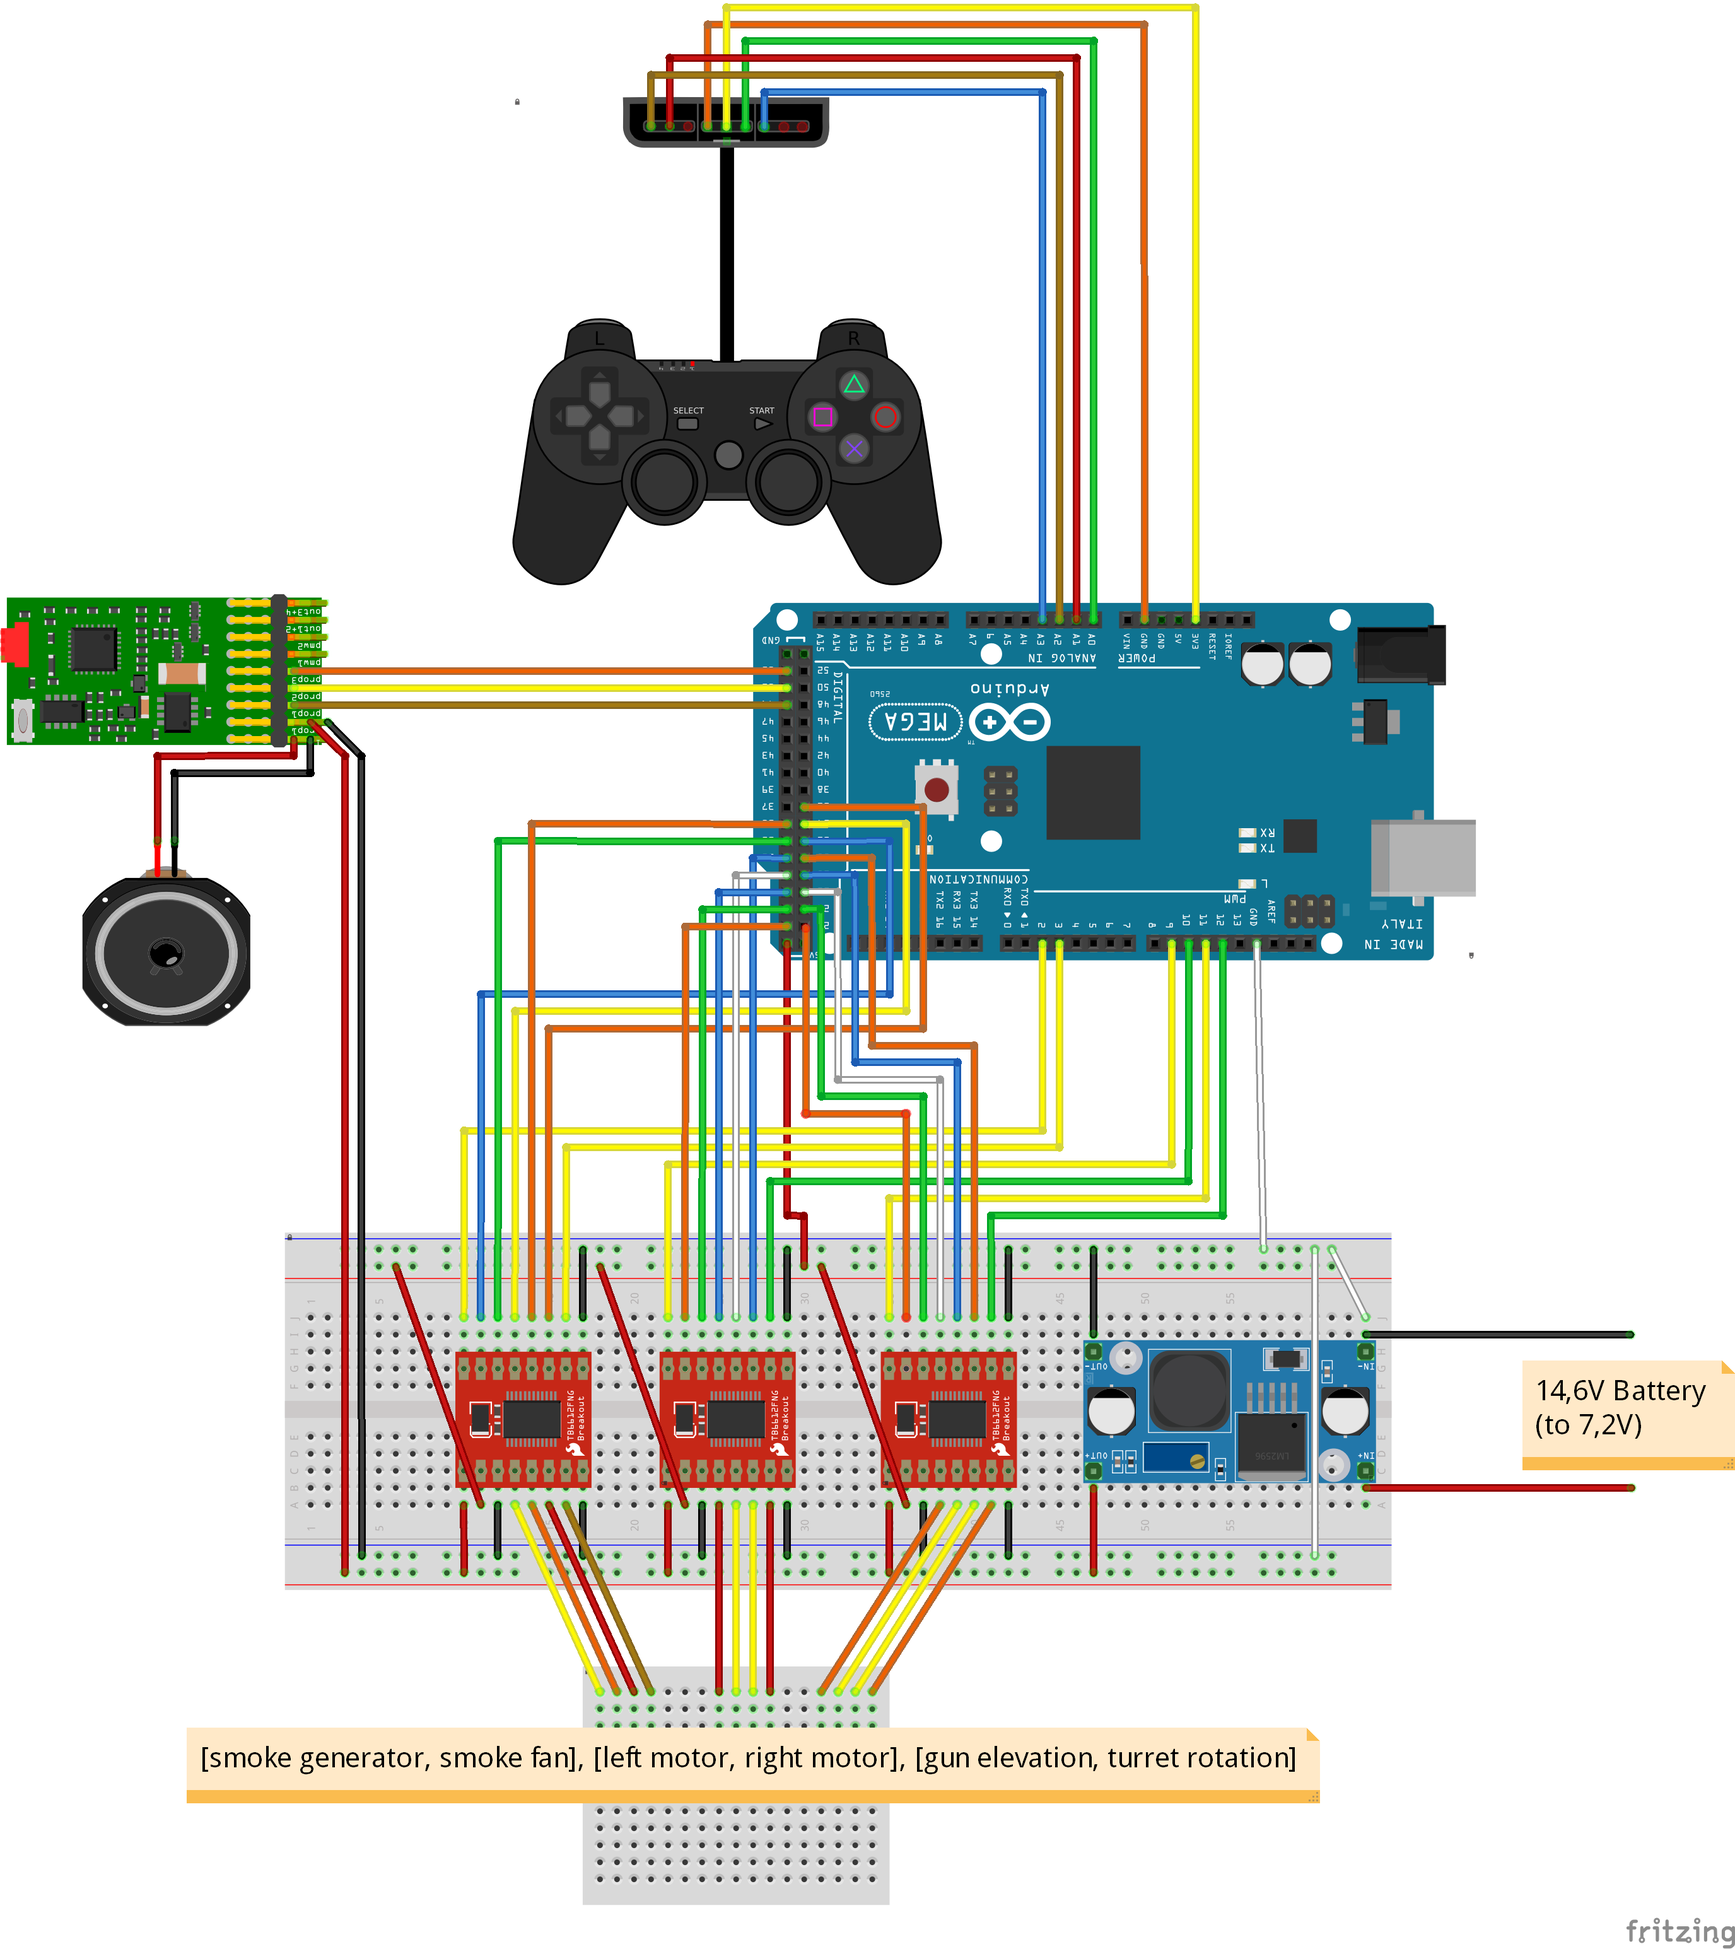
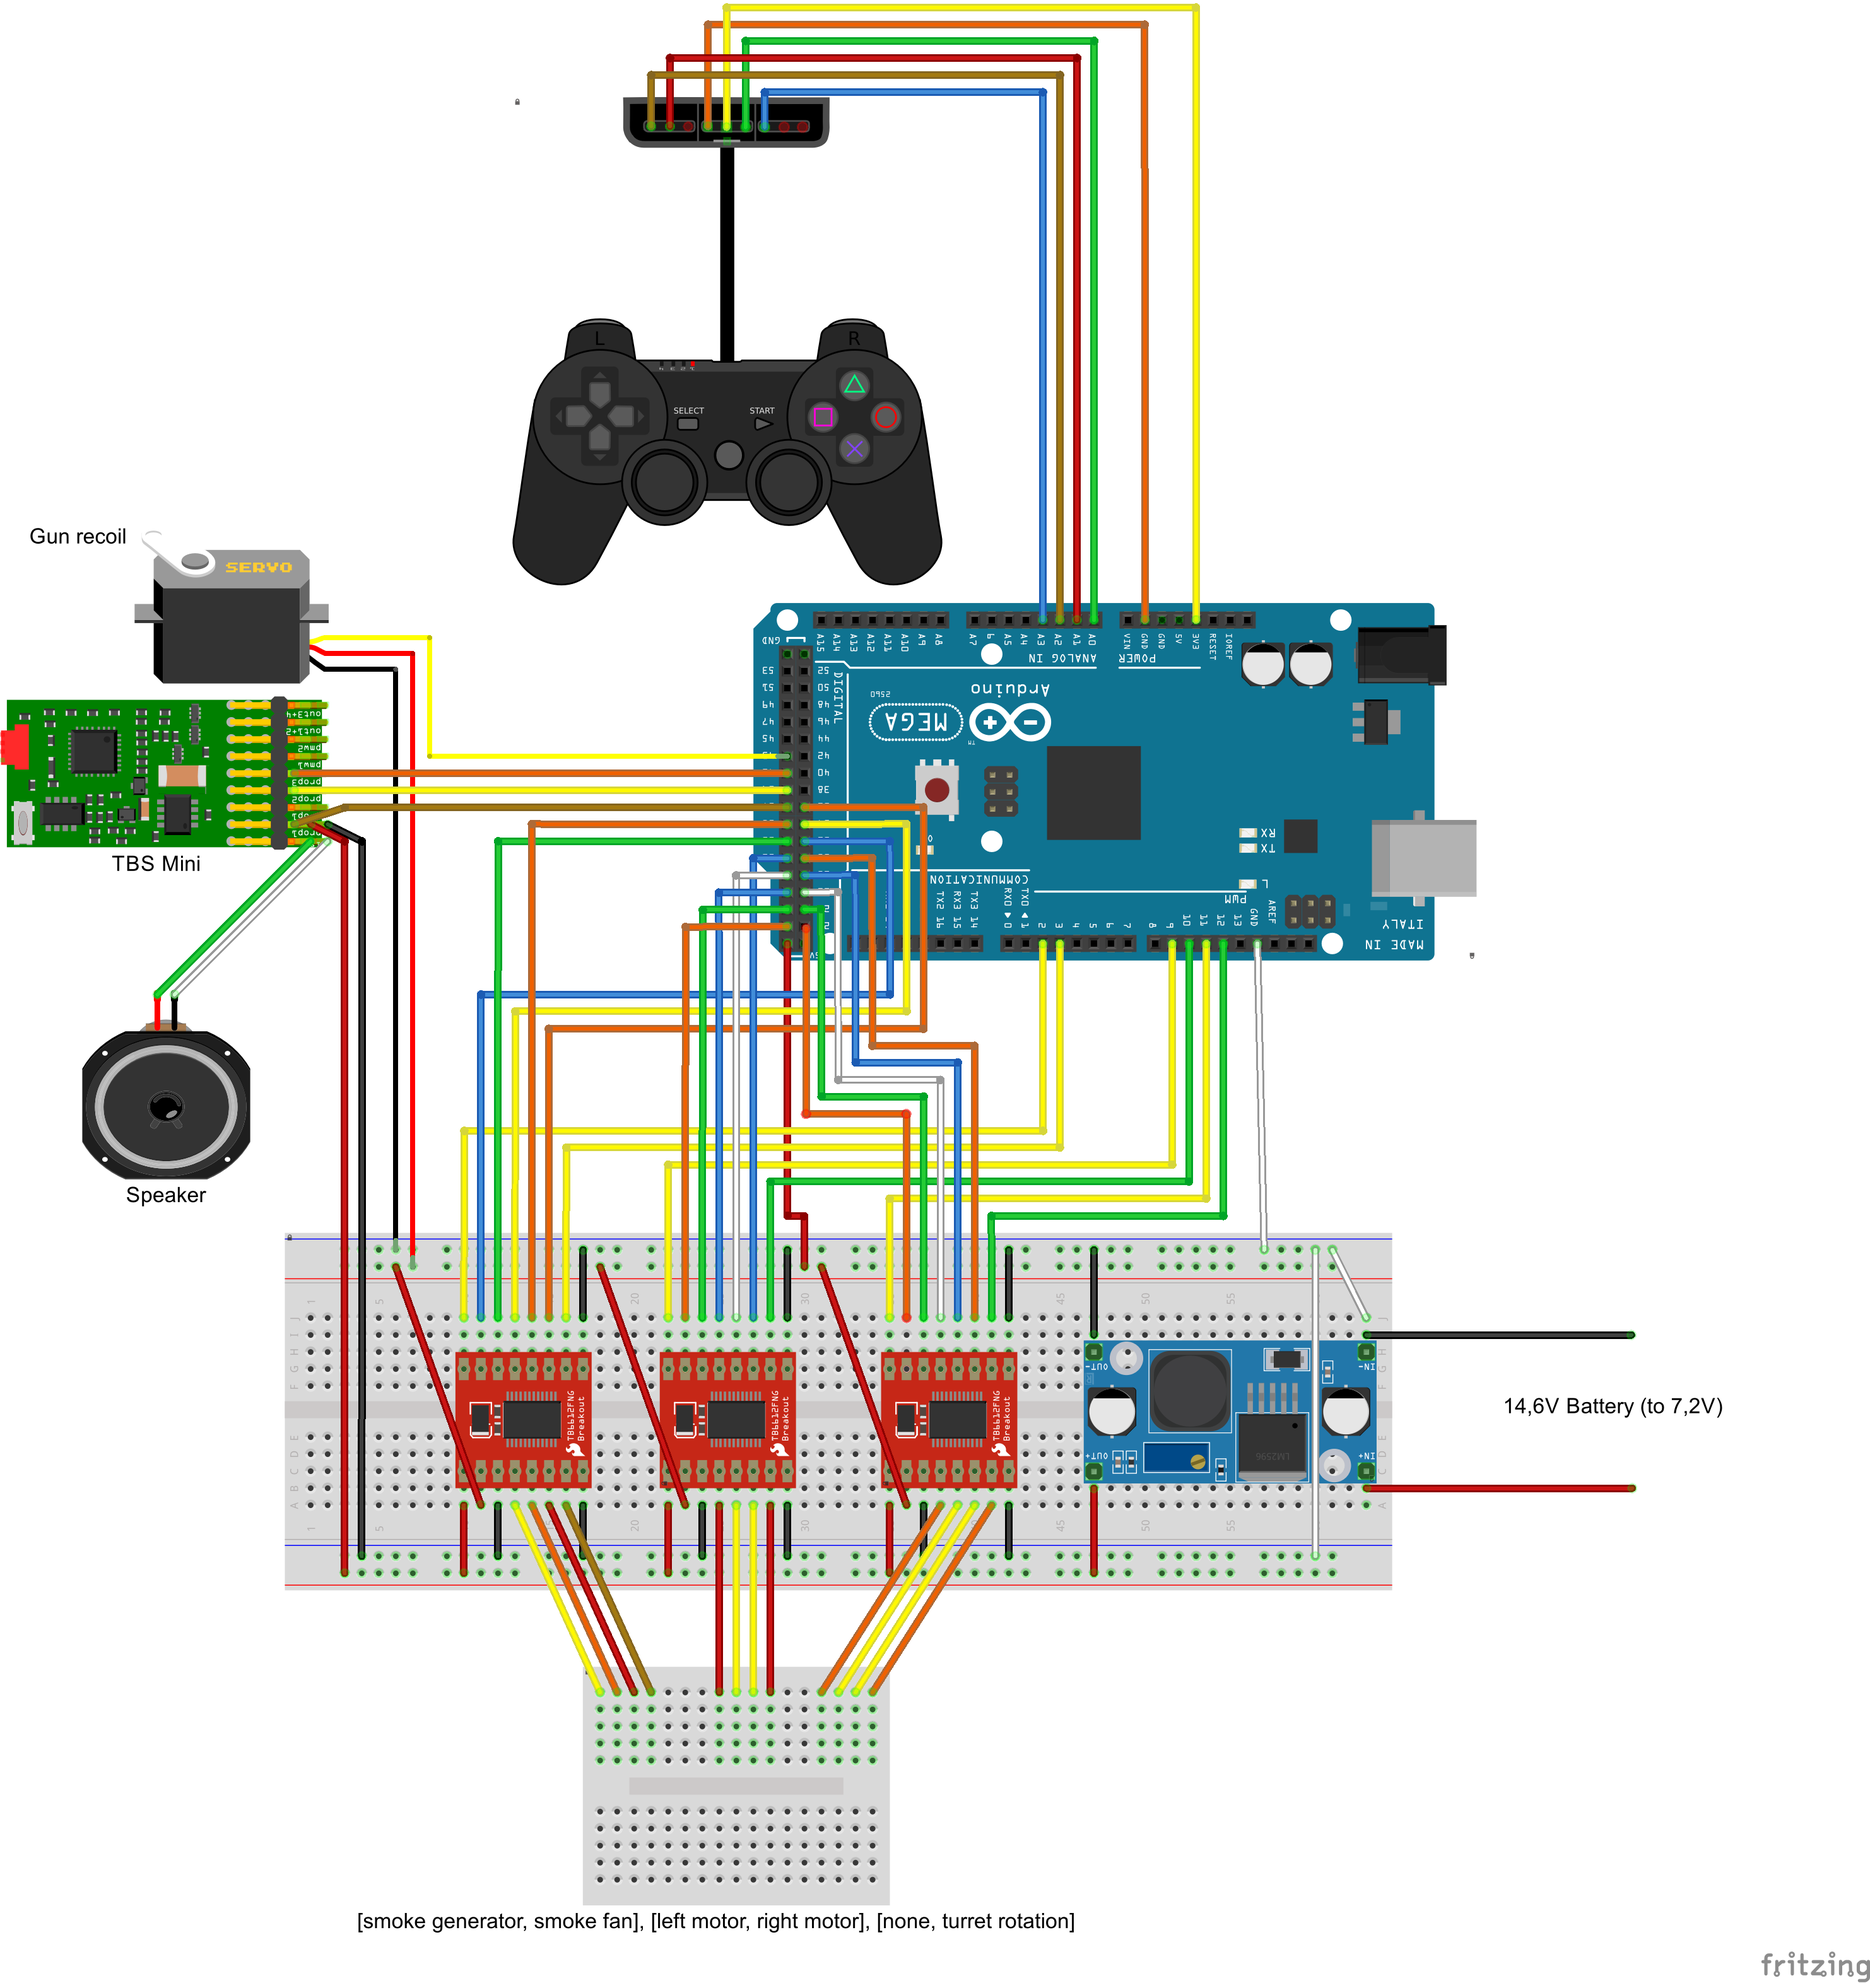
wiring diagram and doc

diff --git a/README.md b/README.md
@@ -14,12 +14,12 @@ Hardware:
 * 3 x TB6612FNG.
 * 1 x Heng Long chassis with gearbox (2 DC motors).
 * 1 x Turret rotation gearbox.
-* 1 x Airsoft gun unit.
+* 1 x MG90S servo for gun recoil.
+* 1 x MG90S servo for gun elevation.
 * 1 x Dasmikro TBS Mini sound unit.
 * 1 x 8 Ohm speaker.
 * 1 x PS2 controller (bluetooth is not necessary).
 * 1 x battery (I'm using a 14.5V 2.15Ah from a robot vacuum cleaner).
-* 1 x 9V battery for arduino standalone power.
 * A lot of jumper wires.
 
 ## Dependencies
@@ -28,6 +28,7 @@ Hardware:
 * [TBSMini](https://github.com/edumardo/TBSMini).
 * [PS2X_lib](https://github.com/madsci1016/Arduino-PS2X).
 * [arduino-timer](https://github.com/contrem/arduino-timer), available in the [library manager](https://www.arduino.cc/en/guide/libraries#).
+* [AsyncServo](https://github.com/luisllamasbinaburo/Arduino-AsyncServo).  available in the [library manager](https://www.arduino.cc/en/guide/libraries#).
 
 ## Features
 
@@ -37,7 +38,7 @@ Hardware:
 | PS2 left analog stick control | ✔ Done        |            |
 | Turret rotation               | ✔ Done        |            |
 | Gun elevation                 | ✔ Done        |            |
-| Airsoft gun shoot             | ⚙ In progress |            |
+| Airsoft gun shoot             | ⚠ Pending     |            |
 | Smoke unit                    | ✔ Done        |            |
 | Sound unit                    | ⚙ In progress |            |
 | Start / Stop sequence         | ⚙ In progress |            |
